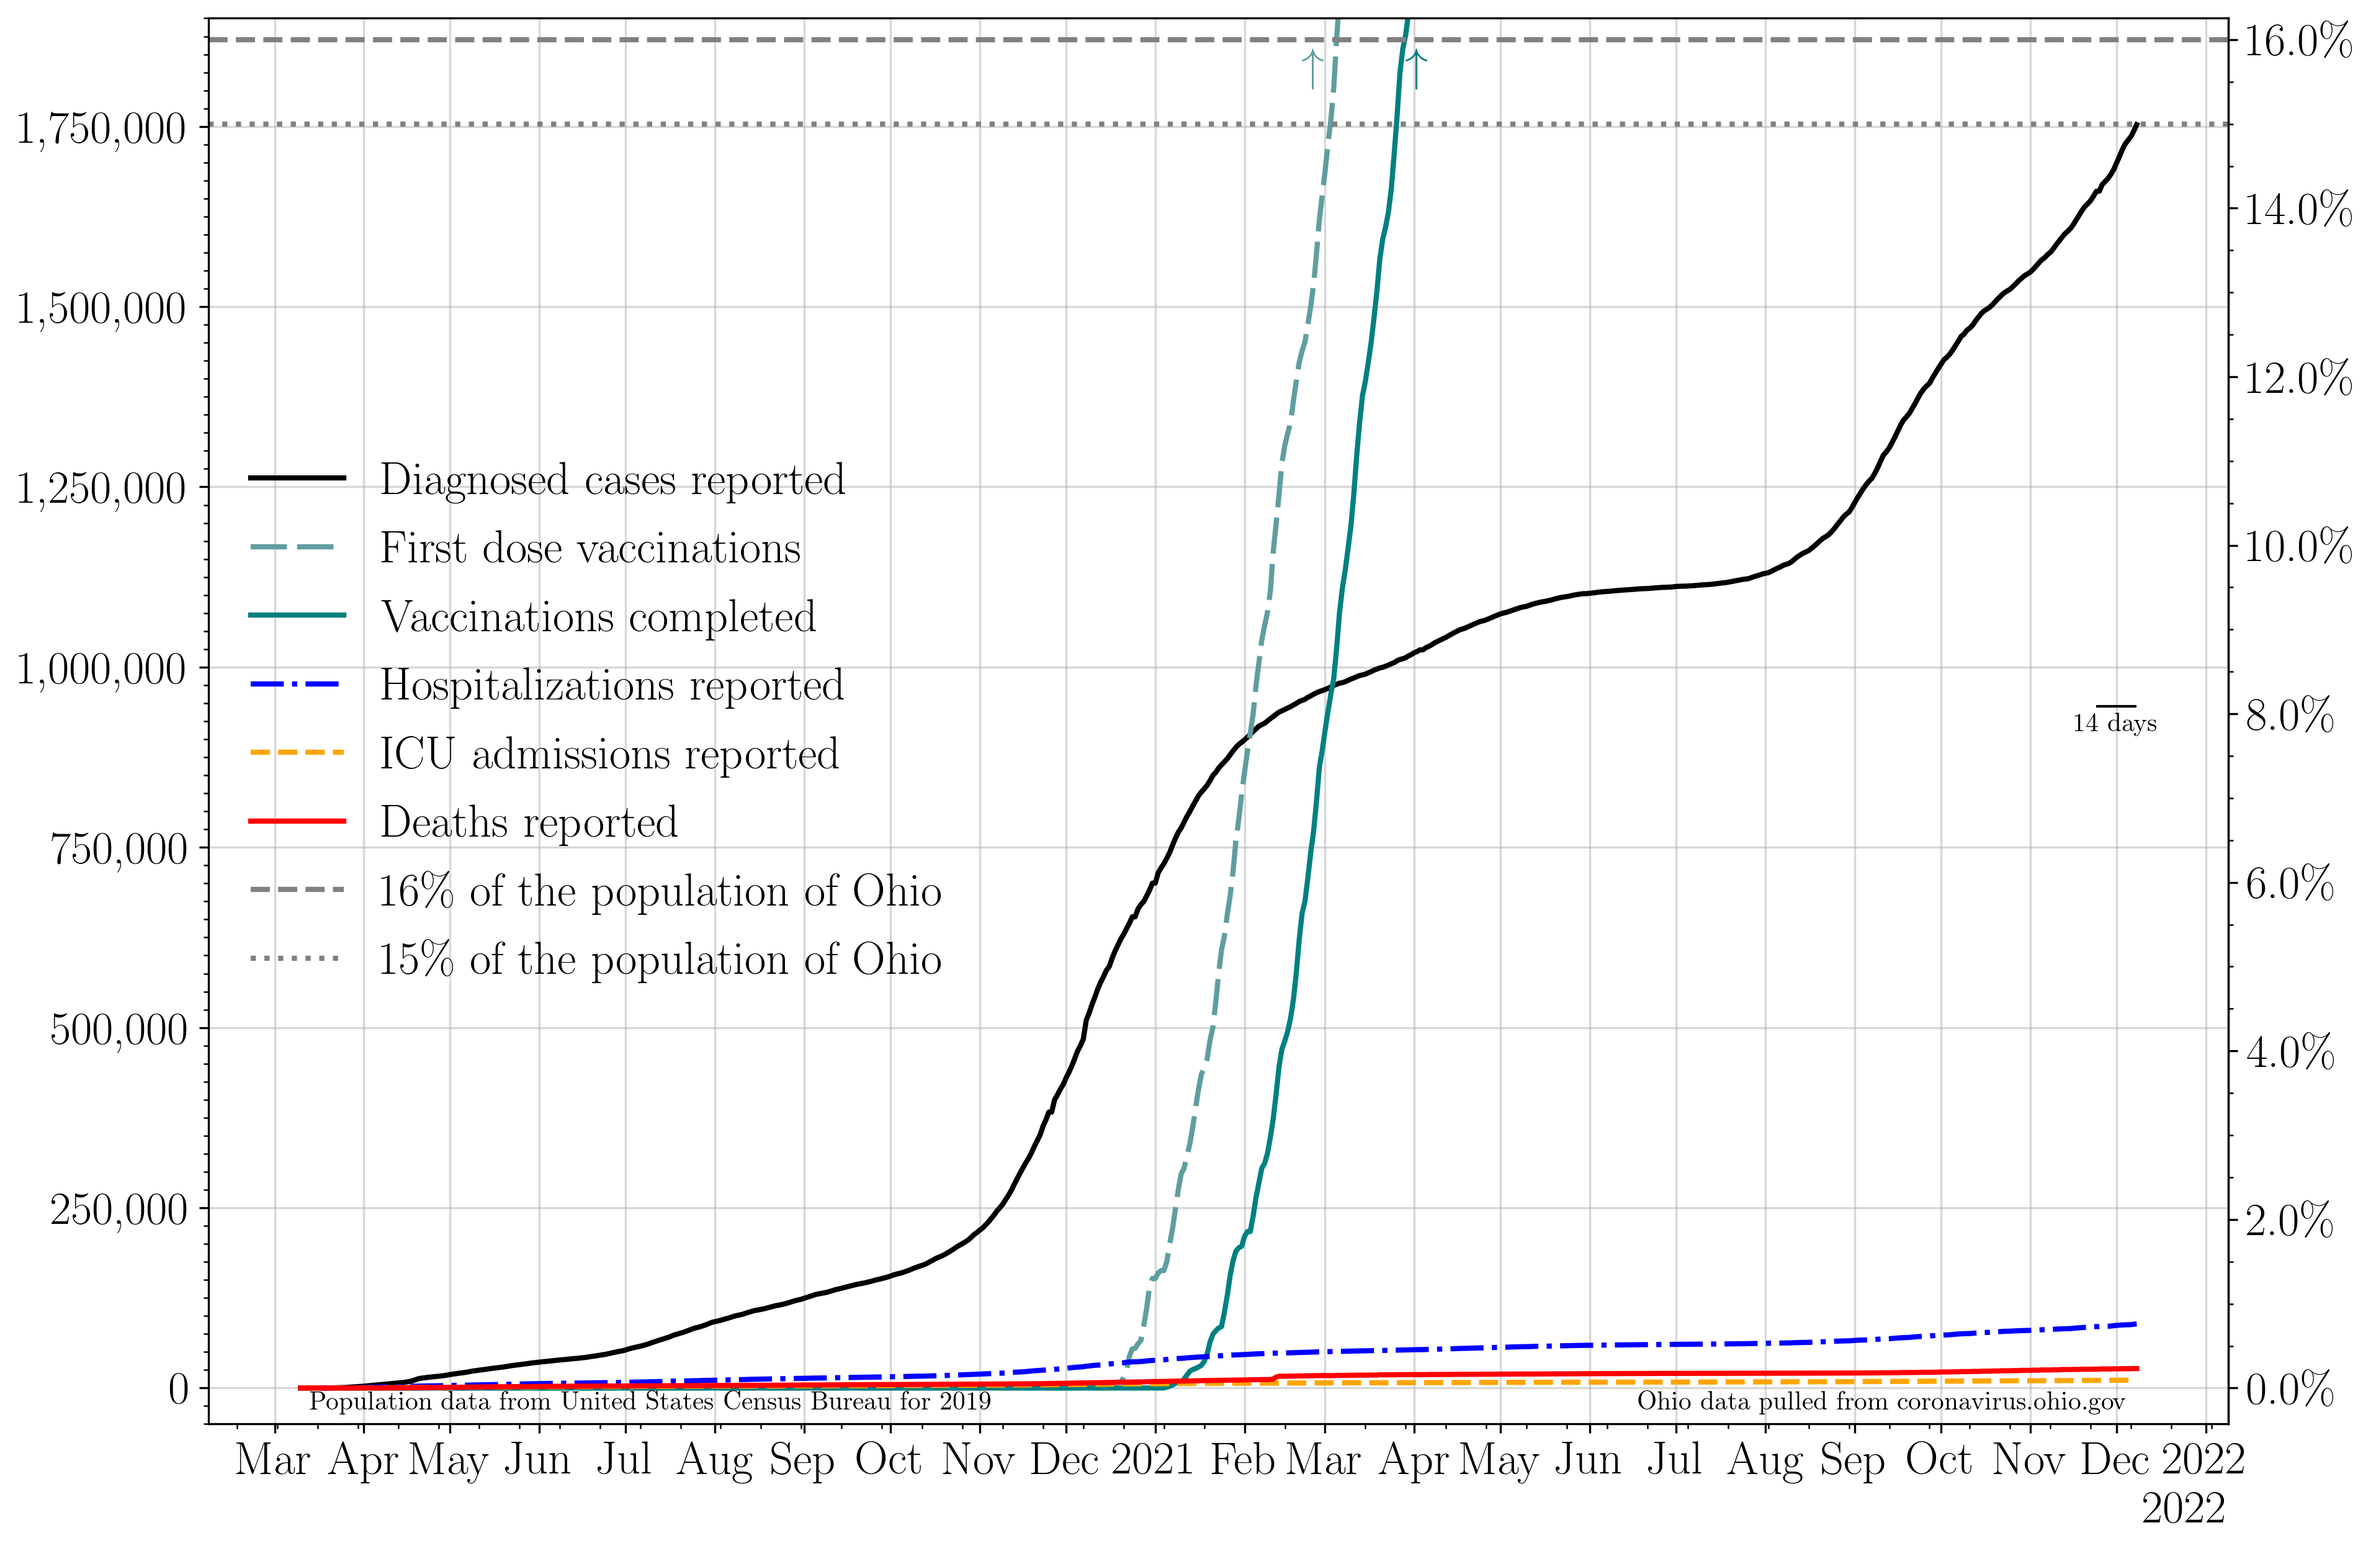
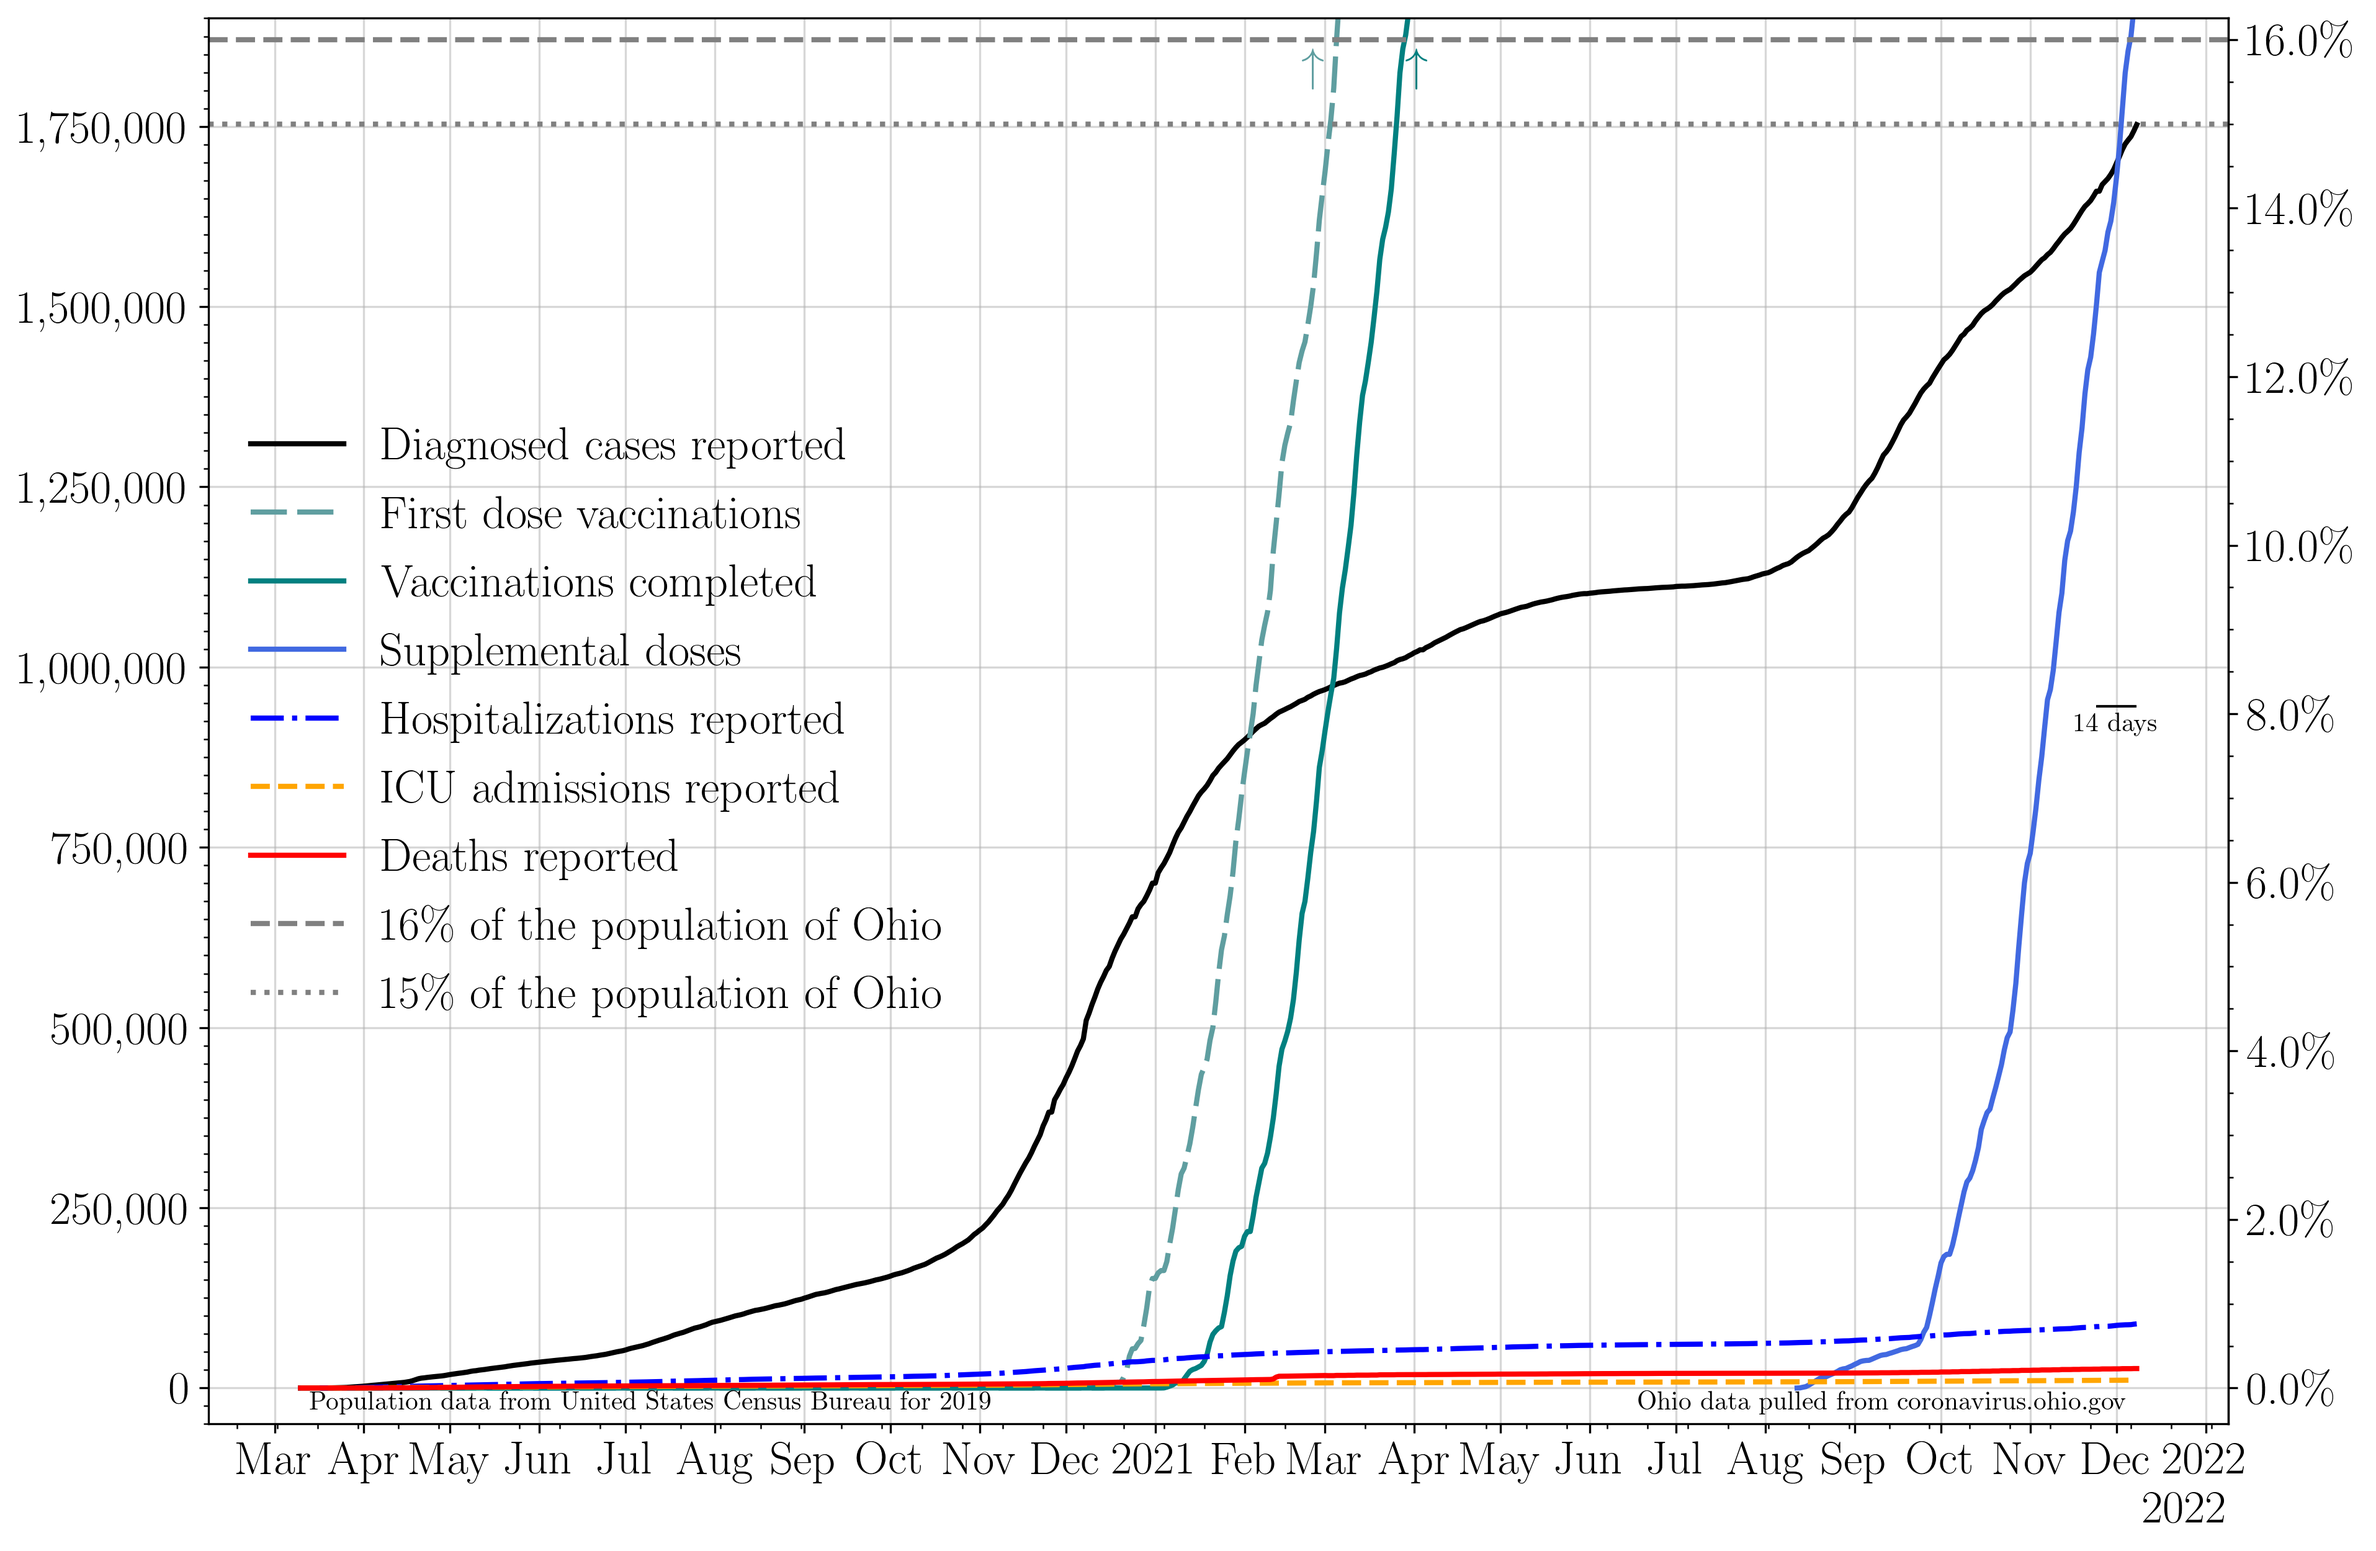
Cumulative case fig update, & extra line of text
Cumulative reported cases now includes supplementary dose line, and the end of the index.md file now contains the number of people vaccinated within six months or boosted.

Changed region(s): [[0.0932, 0.2809, 0.404, 0.6555]]

diff --git a/index.md b/index.md
@@ -91,6 +91,9 @@ The cumulative number of first and second round vaccinations. If no new events w
 >The current total number of second round vaccinations represents 22 people out of every 41 in the state of Ohio having completed their vaccination sequence, and 9 people out of every 14 people over age 18. 
 >This is 53.65 percent of the population of Ohio, and 64.17 percent of the 18+ population.
 
->Currently fully protected by the vaccine are: 6,142,891 people, who received their second round vaccination on or before Nov 24 2021.
+>Currently fully vaccinated (2 weeks past a second dose) are: 6,142,891 people, who received their second round vaccination on or before Nov 24 2021.
 >This represents 52.5 percent of the population of Ohio, and 63.46 percent of adults over 18.
+
+>Currently maximally protected are: 3,224,264 people, who received their second round vaccination on or before Nov 24 2021, and either were vaccinated less than six months ago, or have had a booster.
+>This represents 27.56 percent of the population of Ohio, and 31.44 percent of adults over 18.
 
